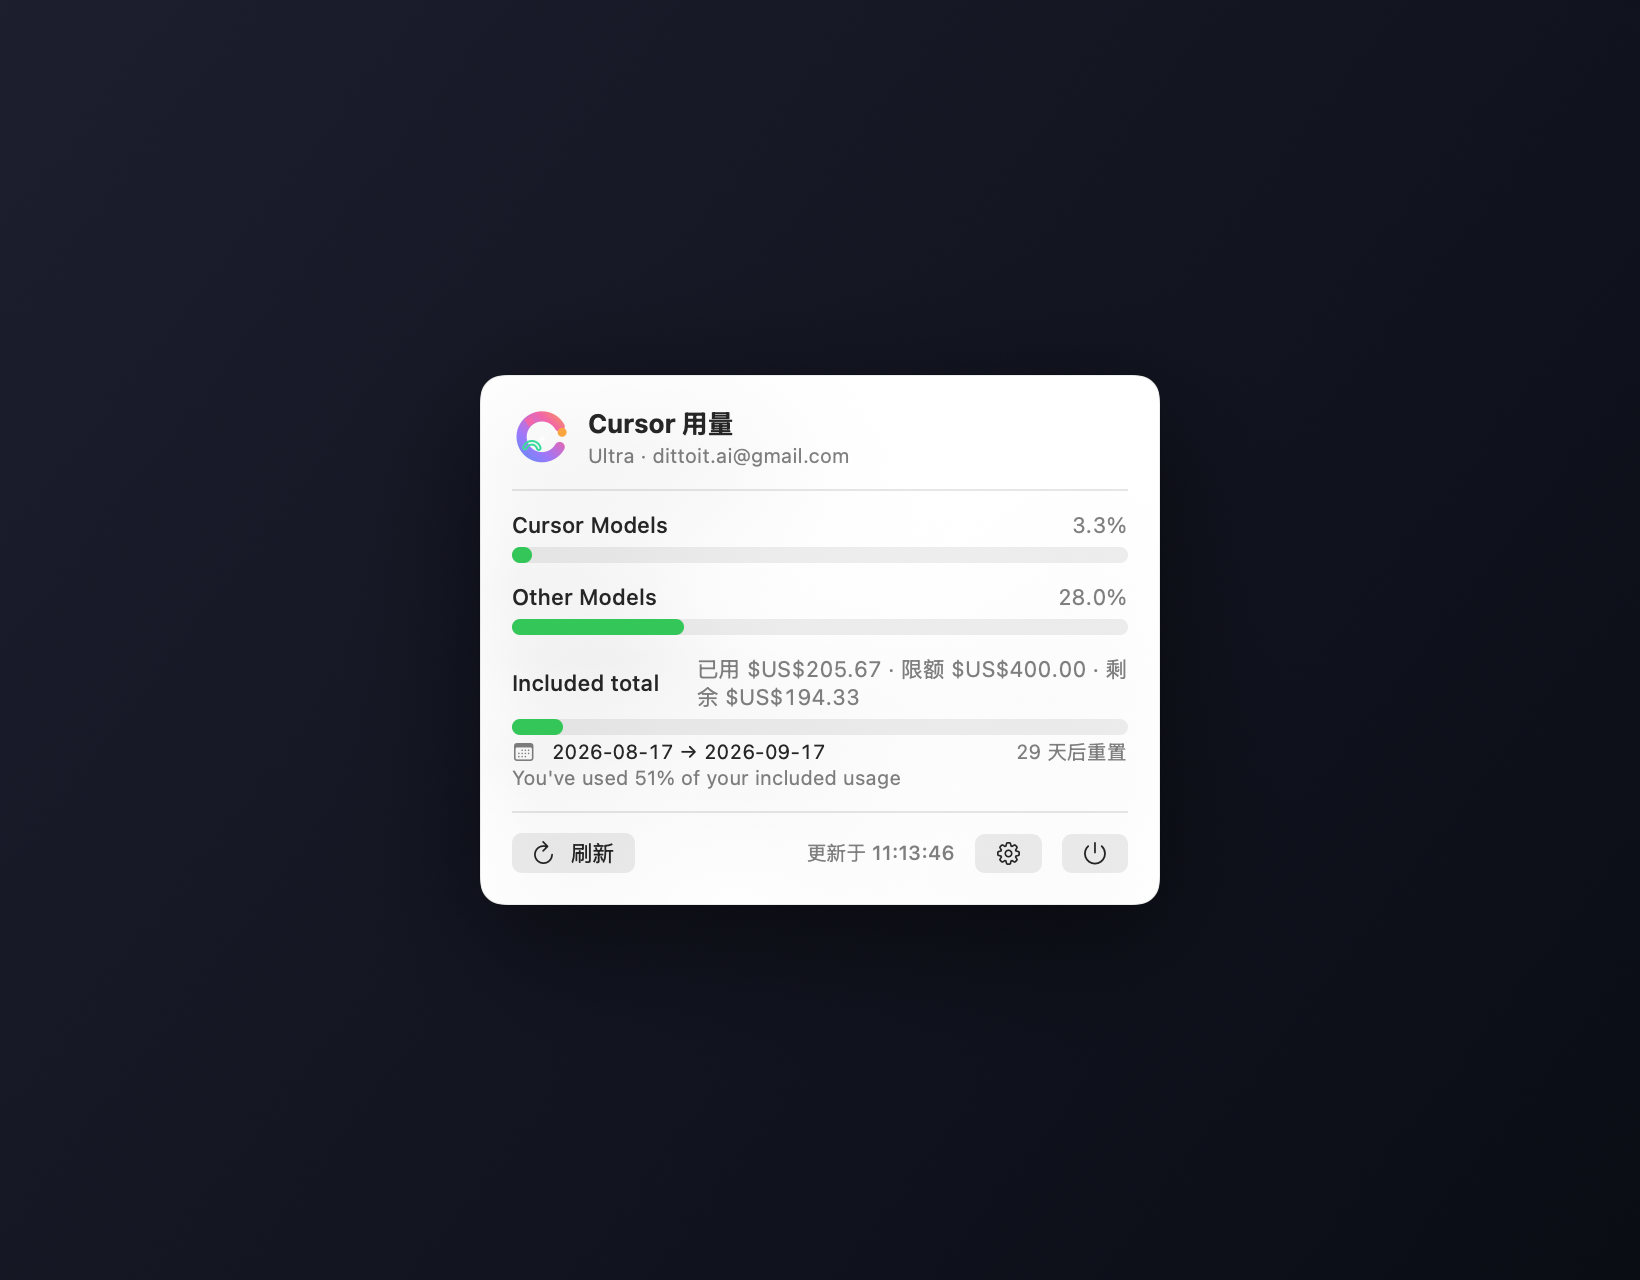
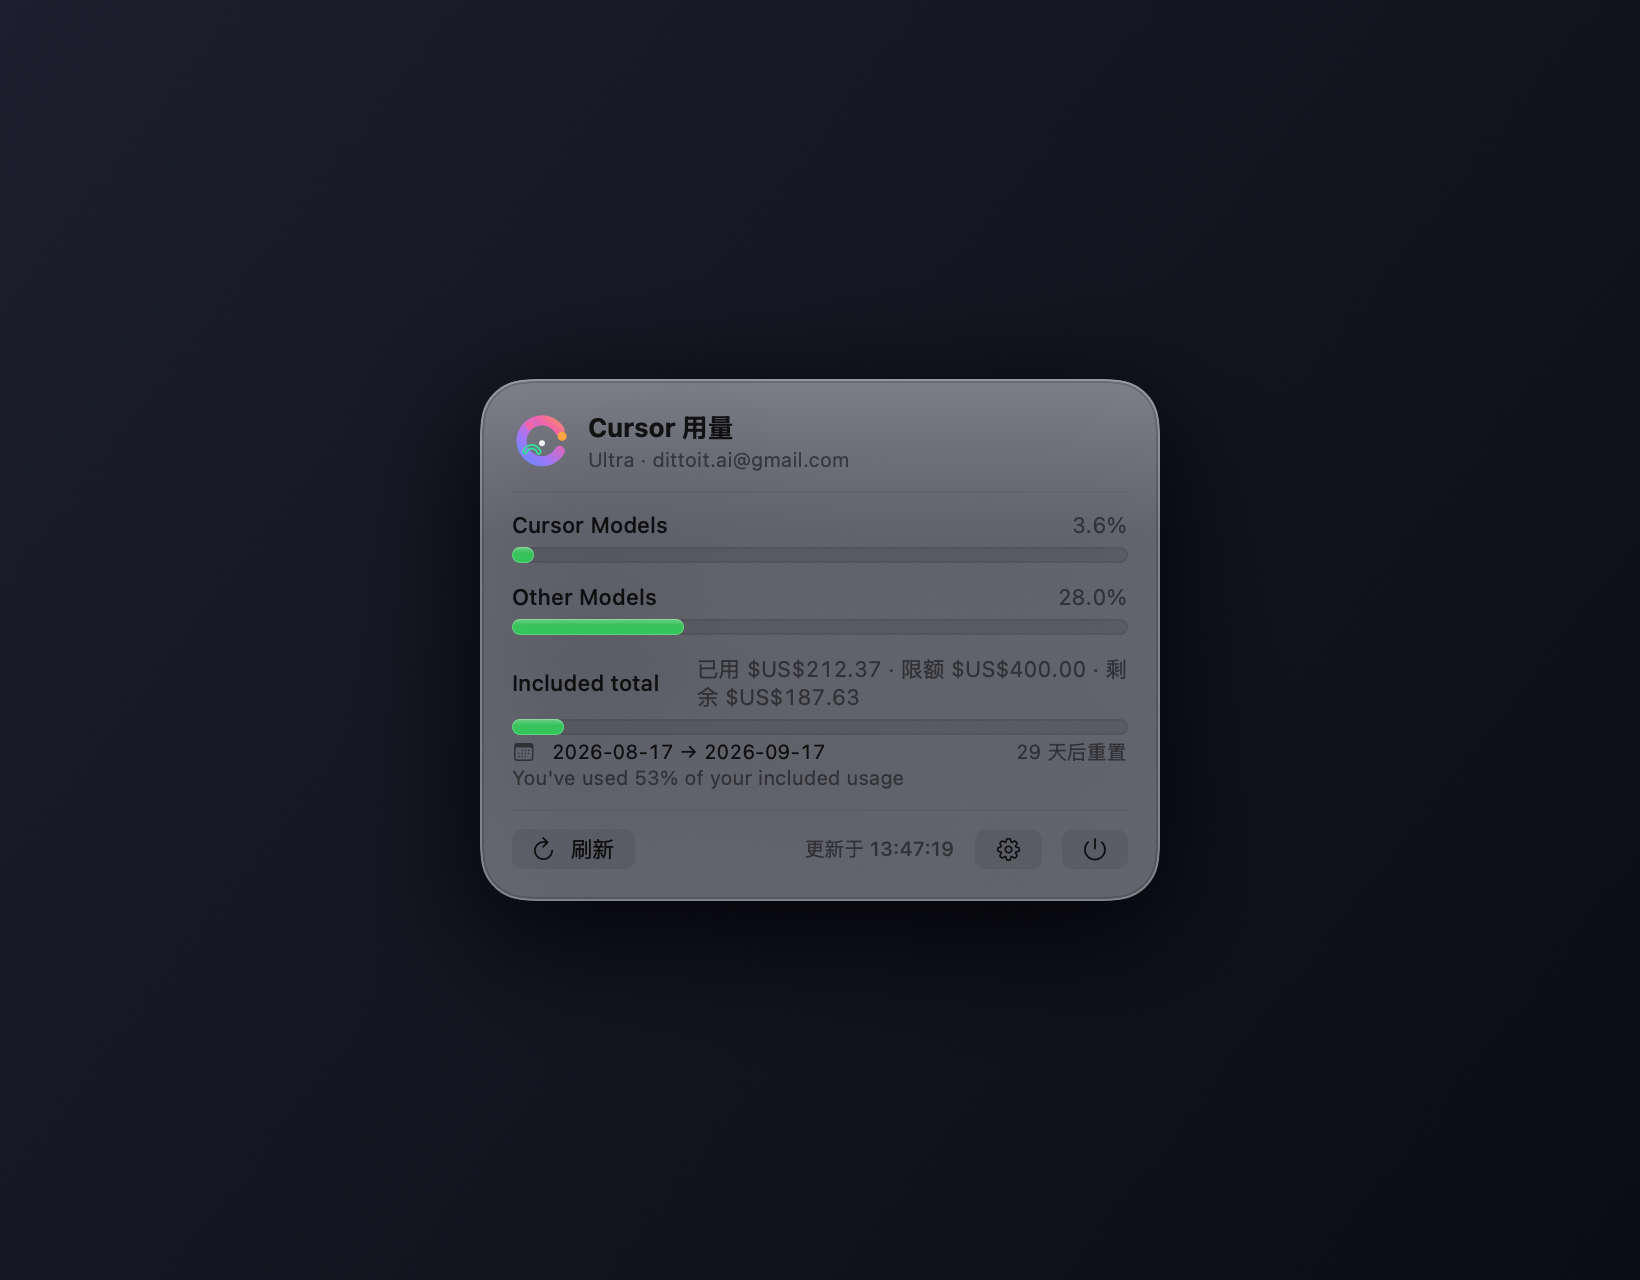
feat(v0.4.0): 面板升级为 macOS 26 液态玻璃（Liquid Glass）视觉
- UsagePanel: macOS 26+ 用原生 SwiftUI .glassEffect（随壁纸取色半透明材质、玻璃边缘高光、24pt 连续圆角 + 柔和悬浮投影）；macOS 12-25 自动回退经典实心卡片
- 用量条改为玻璃质感（半透明轨道 + 渐变填充 + 顶部高光 + 细描边），分隔线改为发丝线
- AppDelegate: 窗口四周留透明边距（上10/左右20/下24）容纳投影；GlassHostingView.hitTest 对边距返回 nil 不进面板交互；窗口顶与菜单栏底齐平不压菜单栏；外部点击关闭改用玻璃区域判定
- Screenshot: ImageRenderer 无法合成 glassEffect，截图模式改用拟真玻璃底（ultraThinMaterial + 高光 + 双层描边）并重新生成产品截图
- README/DESIGN 更新视觉说明；VERSION 0.3.0 -> 0.4.0

Changed region(s): [[0.2799, 0.2812, 0.7152, 0.7188]]

diff --git a/Sources/UsagePanel.swift b/Sources/UsagePanel.swift
@@ -5,23 +5,32 @@ import SwiftUI
 struct UsagePanelView: View {
     @ObservedObject var model: PanelModel
 
+    /// 截图模式：ImageRenderer 无法合成原生玻璃效果的 Metal 图层，
+    /// 此模式下用拟真玻璃底渲染产品图（真实窗口不受影响）。
+    var imitationBackdrop = false
+
     var body: some View {
         VStack(alignment: .leading, spacing: 0) {
             header
-            Divider().padding(.vertical, 10)
+            separator
             content
             if model.showSettings {
                 settingsSection
             }
-            Divider().padding(.vertical, 10)
+            separator
             footer
         }
         .padding(16)
         .frame(width: 340)
-        .background(RoundedRectangle(cornerRadius: 12)
-            .fill(Color(nsColor: .windowBackgroundColor)))
-        .overlay(RoundedRectangle(cornerRadius: 12)
-            .stroke(Color.primary.opacity(0.08), lineWidth: 1))
+        .modifier(PanelBackdrop(imitation: imitationBackdrop))
+    }
+
+    /// 玻璃面板发丝分隔线（替代系统 Divider）
+    private var separator: some View {
+        Rectangle()
+            .fill(Color.primary.opacity(0.06))
+            .frame(height: 1)
+            .padding(.vertical, 9)
     }
 
     // MARK: 头部
@@ -79,7 +88,7 @@ struct UsagePanelView: View {
             }
             .padding(10)
             .frame(maxWidth: .infinity, alignment: .leading)
-            .background(RoundedRectangle(cornerRadius: 8).fill(Color.primary.opacity(0.05)))
+            .background(RoundedRectangle(cornerRadius: 10).fill(Color.primary.opacity(0.04)))
         case .loaded, .idle:
             if let usage = model.usage {
                 meters(usage)
@@ -266,7 +275,7 @@ struct UsagePanelView: View {
                 .fixedSize(horizontal: false, vertical: true)
         }
         .padding(10)
-        .background(RoundedRectangle(cornerRadius: 8).fill(Color.primary.opacity(0.05)))
+        .background(RoundedRectangle(cornerRadius: 10).fill(Color.primary.opacity(0.04)))
         .padding(.top, 6)
     }
 
@@ -303,6 +312,55 @@ struct UsagePanelView: View {
     }
 }
 
+// MARK: - 面板背景（macOS 26 液态玻璃）
+
+/// 面板背景三态：
+/// - **macOS 26+ 真实窗口**：原生 Liquid Glass（SwiftUI `.glassEffect`，自动带玻璃描边/顶部高光/壁纸取色）
+/// - **旧系统（macOS 12–25）**：回退为传统实心圆角卡片（保持原观感）
+/// - **截图模式**：拟真玻璃底（ImageRenderer 无法合成 `.glassEffect` 的 Metal 图层，用材质+高光+描边模拟）
+private struct PanelBackdrop: ViewModifier {
+    var imitation = false
+
+    @ViewBuilder
+    func body(content: Content) -> some View {
+        if imitation {
+            content.background(GlassBackdropImitation())
+        } else if #available(macOS 26.0, *) {
+            content
+                .glassEffect(.regular, in: RoundedRectangle(cornerRadius: 24, style: .continuous))
+                .shadow(color: .black.opacity(0.28), radius: 12, x: 0, y: 6)
+        } else {
+            content
+                .background(RoundedRectangle(cornerRadius: 12)
+                    .fill(Color(nsColor: .windowBackgroundColor)))
+                .overlay(RoundedRectangle(cornerRadius: 12)
+                    .stroke(Color.primary.opacity(0.08), lineWidth: 1))
+        }
+    }
+}
+
+/// 拟真液态玻璃底：仅用于产品截图（半透明材质 + 顶部高光 + 双层描边）
+private struct GlassBackdropImitation: View {
+    var body: some View {
+        RoundedRectangle(cornerRadius: 24, style: .continuous)
+            .fill(.ultraThinMaterial)
+            .overlay(
+                RoundedRectangle(cornerRadius: 24, style: .continuous)
+                    .fill(LinearGradient(colors: [Color.white.opacity(0.16), Color.clear],
+                                         startPoint: .top, endPoint: UnitPoint(x: 0.5, y: 0.3)))
+            )
+            .overlay(
+                RoundedRectangle(cornerRadius: 24, style: .continuous)
+                    .strokeBorder(Color.white.opacity(0.20), lineWidth: 1)
+            )
+            .overlay(
+                RoundedRectangle(cornerRadius: 23, style: .continuous)
+                    .strokeBorder(Color.black.opacity(0.15), lineWidth: 1)
+                    .padding(1)
+            )
+    }
+}
+
 // MARK: - 单条用量条
 
 private struct MeterRow: View {
@@ -331,6 +389,7 @@ private struct MeterRow: View {
     }
 }
 
+/// 玻璃质感用量条：半透明轨道 + 渐变填充 + 顶部高光 + 细描边
 private struct MeterBar: View {
     let percent: Double
     let tint: Color
@@ -338,13 +397,27 @@ private struct MeterBar: View {
     var body: some View {
         GeometryReader { geo in
             ZStack(alignment: .leading) {
-                Capsule().fill(Color.primary.opacity(0.08))
-                Capsule().fill(tint)
-                    .frame(width: max(6, geo.size.width * min(max(percent, 0), 100) / 100))
+                // 玻璃轨道
+                Capsule()
+                    .fill(Color.primary.opacity(0.10))
+                    .overlay(Capsule().strokeBorder(Color.primary.opacity(0.08), lineWidth: 1))
+                // 渐变填充 + 高光
+                Capsule()
+                    .fill(LinearGradient(colors: [tint.opacity(0.92), tint],
+                                         startPoint: .top, endPoint: .bottom))
+                    .frame(width: max(6, geo.size.width * MeterBar.clamped(percent) / 100))
+                    .overlay(
+                        Capsule()
+                            .fill(LinearGradient(colors: [Color.white.opacity(0.28), Color.white.opacity(0.02)],
+                                                 startPoint: .top, endPoint: UnitPoint(x: 0.5, y: 0.4)))
+                    )
+                    .overlay(Capsule().strokeBorder(Color.white.opacity(0.22), lineWidth: 0.5))
             }
         }
         .frame(height: 8)
     }
+
+    static func clamped(_ p: Double) -> Double { min(max(p, 0), 100) }
 }
 
 extension View {

diff --git a/Sources/AppDelegate.swift b/Sources/AppDelegate.swift
@@ -6,6 +6,27 @@ import Combine
 final class MenuPanel: NSPanel {
     override var canBecomeKey: Bool { true }
     override var canBecomeMain: Bool { false }
+
+    /// 液态玻璃模式的透明边距（容纳投影），0 = 传统模式
+    var glassInset: CGFloat = 0
+
+    /// 玻璃实际占用的屏幕区域（扣除透明边距）；点击判定用
+    var glassScreenFrame: NSRect {
+        guard glassInset > 0, let cv = contentView else { return frame }
+        let inWindow = cv.convert(cv.bounds.insetBy(dx: glassInset, dy: glassInset), to: nil)
+        return convertToScreen(inWindow)
+    }
+}
+
+/// 液态玻璃专用宿主视图：透明边距区域的点击返回 nil（点击穿透，不进面板交互）
+final class GlassHostingView<Content: View>: NSHostingView<Content> {
+    var glassInset: CGFloat = 0
+
+    override func hitTest(_ point: NSPoint) -> NSView? {
+        let hit = super.hitTest(point)
+        guard let hit, glassInset > 0 else { return hit }
+        return bounds.insetBy(dx: glassInset, dy: glassInset).contains(point) ? hit : nil
+    }
 }
 
 @MainActor
@@ -87,7 +108,6 @@ final class AppDelegate: NSObject, NSApplicationDelegate {
     // MARK: - 面板（自定位，替代 NSPopover：位置可控、内容变化自动重排）
 
     private func setupPanel() {
-        let contentVC = NSHostingController(rootView: UsagePanelView(model: model))
         let p = MenuPanel(contentRect: NSRect(x: 0, y: 0, width: 340, height: 420),
                           styleMask: [.borderless, .nonactivatingPanel],
                           backing: .buffered,
@@ -99,7 +119,21 @@ final class AppDelegate: NSObject, NSApplicationDelegate {
         p.isMovableByWindowBackground = false
         p.hidesOnDeactivate = false
         p.becomesKeyOnlyIfNeeded = true
-        p.contentViewController = contentVC
+        if #available(macOS 26.0, *) {
+            // 液态玻璃模式：四周留透明边距容纳投影（上 10pt 贴菜单栏，左右下更宽），
+            // 边距区域点击不进面板交互（GlassHostingView.hitTest 返回 nil）
+            let hosting = GlassHostingView(rootView: AnyView(
+                UsagePanelView(model: model)
+                    .padding(.top, 10)
+                    .padding(.leading, 20)
+                    .padding(.trailing, 20)
+                    .padding(.bottom, 24)))
+            hosting.glassInset = 20
+            p.glassInset = 20
+            p.contentView = hosting
+        } else {
+            p.contentViewController = NSHostingController(rootView: AnyView(UsagePanelView(model: model)))
+        }
         panel = p
         logPanel("初始化面板")
     }
@@ -136,8 +170,8 @@ final class AppDelegate: NSObject, NSApplicationDelegate {
     }
 
     /// 按内容 fittingSize 调整尺寸并定位到状态栏按钮正下方
-    private func layoutPanel(panel: NSPanel, button: NSStatusBarButton) {
-        let fitting = panel.contentViewController?.view.fittingSize ?? NSSize(width: 340, height: 300)
+    private func layoutPanel(panel: MenuPanel, button: NSStatusBarButton) {
+        let fitting = panel.contentView?.fittingSize ?? NSSize(width: 340, height: 300)
         let width = max(300, min(fitting.width, 380))
         let height = max(140, min(fitting.height, 900))
         let size = NSSize(width: width, height: height)
@@ -148,7 +182,7 @@ final class AppDelegate: NSObject, NSApplicationDelegate {
     }
 
     /// 定位：按钮中点在菜单栏正下方，屏幕内钳制
-    private func positionPanel(panel: NSPanel, button: NSStatusBarButton) {
+    private func positionPanel(panel: MenuPanel, button: NSStatusBarButton) {
         guard let window = button.window else {
             PanelModel.diagnose("position: button.window 为 nil，兜底居中")
             panel.center()
@@ -160,7 +194,9 @@ final class AppDelegate: NSObject, NSApplicationDelegate {
         let size = panel.frame.size
         var x = buttonScreenFrame.midX - size.width / 2
         x = min(max(x, screenFrame.minX + 8), screenFrame.maxX - size.width - 8)
-        let y = buttonScreenFrame.minY - size.height - 8
+        // 传统模式：面板顶 8pt 悬于菜单栏下方；液态玻璃模式：窗口顶与菜单栏底齐平
+        //（透明边距上移，玻璃顶仍约 10pt 悬于菜单栏下方；窗口不压菜单栏，避免吞掉相邻状态栏项点击）
+        let y = buttonScreenFrame.minY - size.height - 8 + (panel.glassInset > 0 ? 8 : 0)
         PanelModel.diagnose("position: winFrame=\(NSStringFromRect(window.frame)) btnOnScreen=\(NSStringFromRect(buttonScreenFrame)) screen=\(NSStringFromRect(screenFrame)) -> x=\(String(format: "%.0f", x)) y=\(String(format: "%.0f", y))")
         panel.setFrameOrigin(NSPoint(x: x, y: y))
     }
@@ -173,7 +209,7 @@ final class AppDelegate: NSObject, NSApplicationDelegate {
             DispatchQueue.main.async {
                 guard let self, let panel = self.panel, panel.isVisible else { return }
                 let point = event.locationInWindow // 全局监控的事件坐标即屏幕坐标
-                if !panel.frame.contains(point) {
+                if !panel.glassScreenFrame.contains(point) {
                     self.hidePanel()
                 }
             }

diff --git a/Sources/Screenshot.swift b/Sources/Screenshot.swift
@@ -67,13 +67,13 @@ enum Screenshot {
 
         var ok = true
         model.showSettings = false
-        ok = render(view: UsagePanelView(model: model),
+        ok = render(view: UsagePanelView(model: model, imitationBackdrop: true),
                     to: outDir.appendingPathComponent("panel.png"),
                     size: CGSize(width: 820, height: 640)) && ok
 
         if withSettings {
             model.showSettings = true
-            ok = render(view: UsagePanelView(model: model),
+            ok = render(view: UsagePanelView(model: model, imitationBackdrop: true),
                         to: outDir.appendingPathComponent("panel-settings.png"),
                         size: CGSize(width: 820, height: 860)) && ok
         }
@@ -83,7 +83,7 @@ enum Screenshot {
         return ok ? 0 : 1
     }
 
-    /// 深色桌面背景 + 面板卡片（面板视图自带圆角背景，这里只加投影）
+    /// 深色桌面背景 + 液态玻璃面板卡片（截图模式用拟真玻璃底，此处只加投影）
     @MainActor
     private static func render<Content: View>(view: Content, to url: URL, size: CGSize) -> Bool {
         let content = ZStack {

diff --git a/README.md b/README.md
@@ -19,6 +19,10 @@ Click the menu bar icon to see your current billing-cycle usage at a glance — 
 
 *Screenshots rendered from real data on this machine (Ultra plan). · 截图为本机真实数据渲染（Ultra 套餐）。*
 
+> ✨ **macOS 26 Liquid Glass** — the panel adopts Apple's latest **Liquid Glass** (液态玻璃) design on macOS 26: native `glassEffect` material with wallpaper-tinted translucency, glass edge highlights, rounded corners, a soft floating shadow, and transparent margins (clicks there don't enter panel interactions; the window never covers the menu bar). On macOS 12–25 it gracefully falls back to the classic solid card. Product screenshots use a simulated glass backdrop (ImageRenderer can't composite `glassEffect`).
+>
+> ✨ **macOS 26 液态玻璃**——在 macOS 26 上面板采用苹果最新**液态玻璃**方案：原生 `glassEffect` 材质（随壁纸取色的半透明、玻璃边缘高光、大圆角、柔和悬浮投影、透明边距不进交互且窗口不压菜单栏）；macOS 12–25 自动回退为传统实心卡片。产品截图为拟真玻璃底（ImageRenderer 无法合成 `glassEffect`）。
+
 ---
 
 ## Features · 功能
@@ -33,12 +37,15 @@ Click the menu bar icon to see your current billing-cycle usage at a glance — 
 | 🔄 **Auto refresh** — on open, every 60 s while open, every 5 min in background | 🔄 **自动刷新**——打开即拉取、打开期间每 60 s、后台每 5 min |
 | 🔐 **Token settings** — save to **macOS Keychain**; ⚙ toggles open/close (two collapse entries), or auto-read Cursor's local login (default), never stored in this repo | 🔐 **Token 设置**——保存到 **macOS 钥匙串**；⚙ 可展开/收起（两处收起入口），或自动读取 Cursor 本地登录态（默认），绝不写入仓库 |
 | 🛡 **Zero dependencies** — pure Swift (AppKit + SwiftUI), no Electron, no runtime deps | 🛡 **零依赖**——纯 Swift（AppKit + SwiftUI），无 Electron、无运行时依赖 |
+| ✨ **Liquid Glass panel** — native macOS 26 `glassEffect` (wallpaper-tinted glass, edge highlight, rounded 24pt corners, floating shadow, click-through margins); classic card fallback below macOS 26 | ✨ **液态玻璃面板**——macOS 26 原生 `glassEffect`（随壁纸取色、边缘高光、24pt 连续圆角、悬浮投影、边距点击穿透）；低于 macOS 26 回退经典卡片 |
 
 ---
 
 ## Quick Start · 快速开始
 
-Requirements · 环境要求：macOS 12+, Xcode command line tools (`swiftc`), and Cursor signed in on this Mac (for auto token) or a manual token.
+Requirements · 环境要求：macOS 12+（**macOS 26 启用液态玻璃面板**），Xcode command line tools (`swiftc`, **Xcode 26+ SDK 才能编译液态玻璃代码**), and Cursor signed in on this Mac (for auto token) or a manual token.
+
+环境要求：macOS 12+（**macOS 26 上启用液态玻璃面板**），Xcode 命令行工具（`swiftc`，**需 Xcode 26+ SDK 编译液态玻璃代码**），以及本机已登录 Cursor（自动取 token）或手动粘贴 token。
 
 ```bash
 cd /Users/litianyi/Documents/Code/_ai-goods/cusor-usage

diff --git a/DESIGN.md b/DESIGN.md
@@ -60,11 +60,18 @@ cursor-usage/
 
 ### 面板内容（SwiftUI，宽 ~330pt）
 
+- **视觉（macOS 26+）**：**液态玻璃（Liquid Glass）** —— 面板根视图挂 `PanelBackdrop` 修饰器：
+  - `glassEffect(.regular, in: RoundedRectangle(cornerRadius: 24, style: .continuous))`（SwiftUI 原生 API，macOS 26+）：半透明玻璃随壁纸取色、自动玻璃描边与顶部高光、24pt 连续圆角；
+  - `.shadow` 柔和悬浮投影（`black 0.28 / radius 12 / y 6`）；
+  - 窗口四周留透明边距（上 10 / 左右 20 / 下 24）容纳投影，`GlassHostingView.hitTest` 对边距返回 nil 实现**边距点击不进面板交互**；点击判定（外部点击关闭）用 `MenuPanel.glassScreenFrame`（扣除边距后的玻璃区域）；
+  - 定位上移 8pt（窗口顶与菜单栏底齐平，不压菜单栏，避免吞掉相邻状态栏项点击）：玻璃顶约 10pt 悬于菜单栏下方。
+  - **回退**：macOS 12–25 保持传统实心圆角卡片（`windowBackgroundColor` + 12pt 圆角）；`--screenshot` 模式因 ImageRenderer 无法合成 `glassEffect` 的 Metal 图层，改用拟真玻璃底（`.ultraThinMaterial` + 顶部高光 + 双层描边）。
 - **头部**：图标 + “Cursor 用量” + 套餐/邮箱（GetPlanInfo + 本地 cachedEmail）
 - **用量条 ×3**：
   - `Cursor Models` — autoPercentUsed（绿色→橙→红按阈值变色）
   - `Other Models` — apiPercentUsed
   - `Included total` — totalPercentUsed + 金额 `已用 $X / 限额 $Y / 剩余 $Z`（美分 ÷ 100）
+  - 用量条为玻璃质感：半透明轨道（primary 0.10 + 细描边）+ 渐变填充 + 顶部高光 + 白色细描边
 - **周期**：`2026-08-16 → 2026-09-19 · 23 天后重置`
 - **按量付费**（有值时）：pooled / individual used·limit
 - **底部**：刷新按钮 · 更新时间 · 设置(⚙) · 退出
